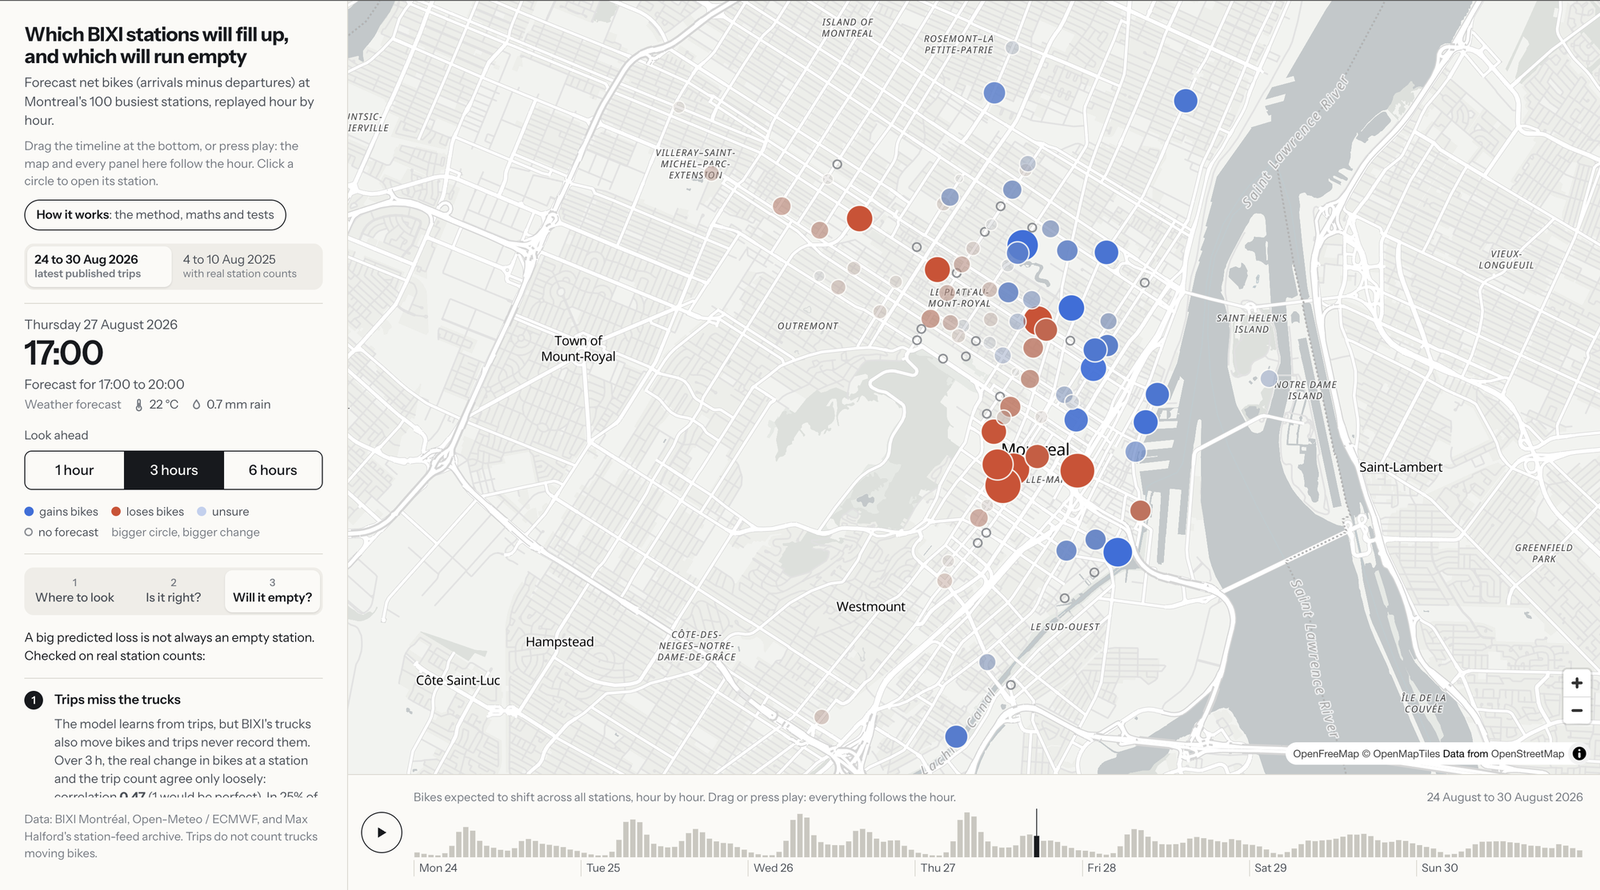
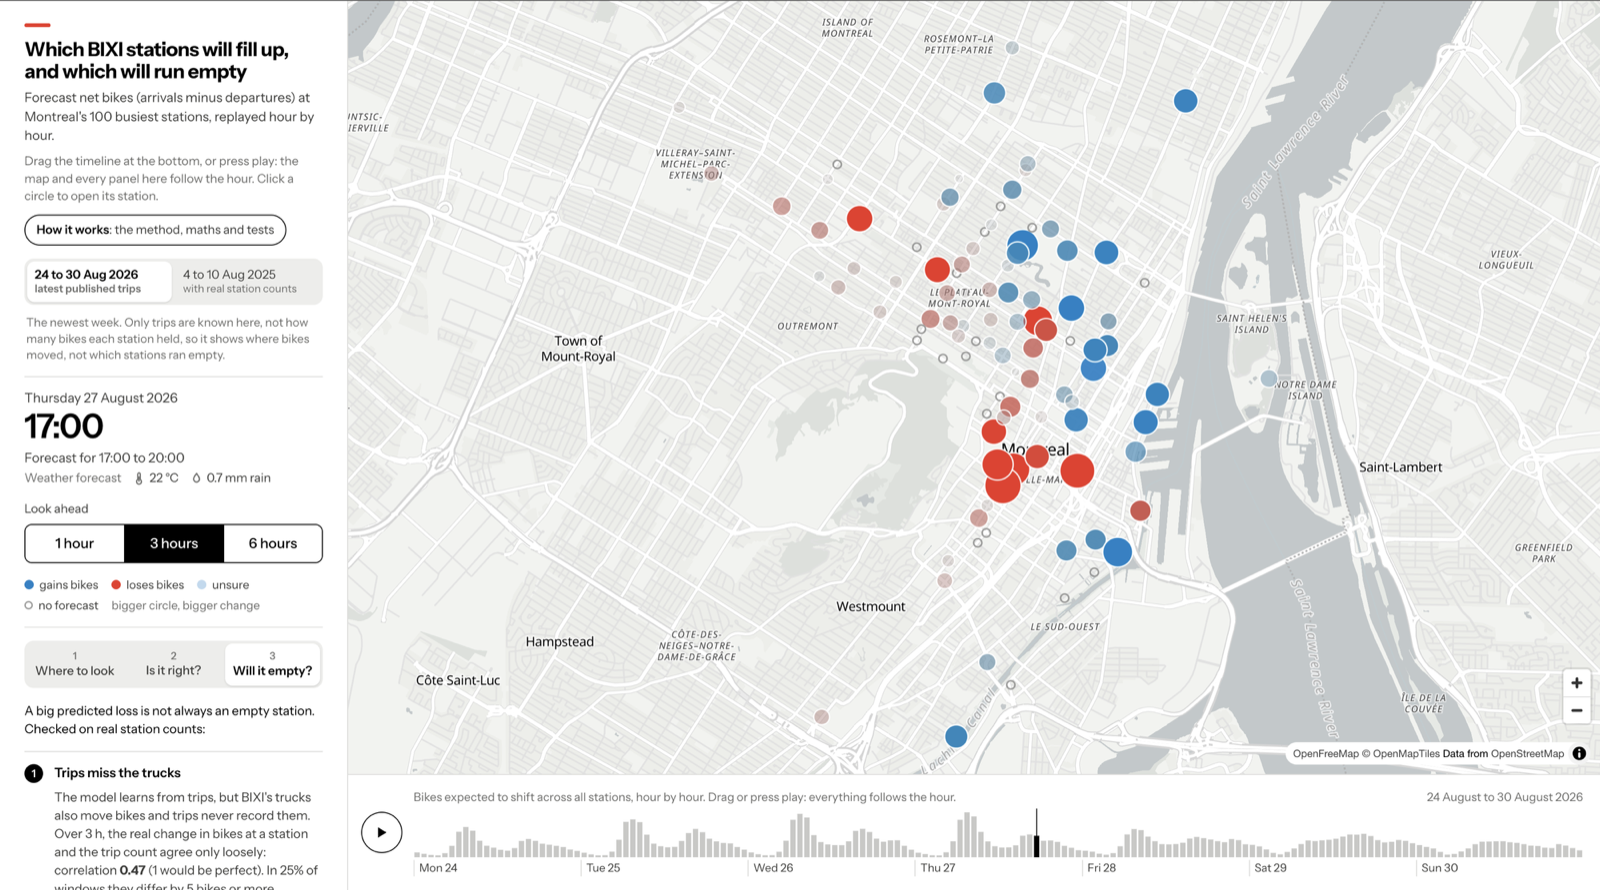
Say plainly that this is a backtest; new map screenshot
The map's opening text and the README intro now state that nothing is live
and the map replays the forecasts the model would have made. README
screenshot updated to the BIXI colours.

Changed region(s): [[0.0, 0.0303, 0.2188, 1.0]]

diff --git a/web/index.html b/web/index.html
@@ -294,7 +294,7 @@
   <aside class="side">
     <header>
       <h1>Which BIXI stations will fill up, and which will run empty</h1>
-      <p class="lede" id="lede">Forecast net bikes (arrivals minus departures) at Montreal's 100 busiest stations, replayed hour by hour.</p>
+      <p class="lede" id="lede">Net bikes (arrivals minus departures) at Montreal's 100 busiest stations: the forecasts the model would have made at each past hour, replayed next to what actually happened. Nothing here is live.</p>
       <p class="howto">Drag the timeline at the bottom, or press play: the map and every panel here follow the hour. Click a circle to open its station.</p>
       <a class="method-link" href="method.html">How it works<span>: the method, maths and tests</span></a>
     </header>

diff --git a/README.md b/README.md
@@ -2,6 +2,8 @@
 
 Which BIXI stations will fill up, and which will run empty, over the next 1, 3 and 6 hours, and which ones should a truck check first? This project forecasts **net bikes** (arrivals minus departures) at Montreal's 100 busiest stations, gives a range for how sure it is, tests itself on three summers it never saw, and then checks the forecast against real station counts.
 
+This is a **backtest, not a live service**: the model learns from summers 2022 and 2023, and every forecast for summers 2024 to 2026 uses only what was known before that hour. The map replays the forecasts the model would have made, next to what actually happened.
+
 **Run the map locally** with `./run_map.sh` (opens <http://localhost:8765>). A hosted version is coming.
 
 ![The map: blue stations gain bikes, red stations lose them](docs/map-overview.png)
